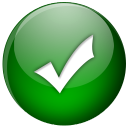
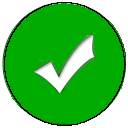
Button added for role switch (codebreaker|codemaker) and 'pressed' images added for all buttons.

diff --git a/js/index.js b/js/index.js
@@ -179,6 +179,9 @@ function displayBoard() {
   topSide += 29; cellHTML += "<div onclick='setColor(" + '"white"' + ")' class='cell' style='top: " + topSide + "px; left: " + leftSide + "px;'><div class='pin white'></div></div>";
 
   $("#board").html(cellHTML);
+  $('#btnCheck').mouseup();
+  $('#btnReset').mouseup();
+  $('#btnSwitch').mouseup();
 }
 
 $(document).ready( function() {
@@ -194,6 +197,24 @@ $(document).ready( function() {
       }
     }
   }
+
+  $('#btnCheck').on("mousedown", function() {
+    $("#btnCheck").css("background-image", "url(images/check_border.png)").css("background-size", "29px 29px");
+  }).on("mouseup", function(){
+    $("#btnCheck").css("background-image", "url(images/check.png)").css("background-size", "29px 29px");
+  });
+
+  $('#btnReset').on("mousedown", function() {
+    $("#btnReset").css("background-image", "url(images/reset_border.png)").css("background-size", "29px 29px");
+  }).on("mouseup", function(){
+    $("#btnReset").css("background-image", "url(images/reset.png)").css("background-size", "29px 29px");
+  });
+
+  $('#btnSwitch').on("mousedown", function() {
+    $("#btnSwitch").css("background-image", "url(images/double_arrow_border.png)").css("background-size", "29px 29px");
+  }).on("mouseup", function(){
+    $("#btnSwitch").css("background-image", "url(images/double_arrow.png)").css("background-size", "29px 29px");
+  });
 
   displayBoard();
 

diff --git a/css/style.css b/css/style.css
@@ -34,12 +34,21 @@ body{
   position: absolute;
   top: 259px;
   left: 175px;
+  background-image: url("images/check.png");
 }
 
 #btnReset {
   position: absolute;
-  top: 316px;
+  top: 317px;
   left: 175px;
+  background-image: url("images/reset.png");
+}
+
+#btnSwitch {
+  position: absolute;
+  top: 375px;
+  left: 175px;
+  background-image: url("images/double_arrow.png");
 }
 
 .cell {
@@ -138,24 +147,8 @@ body{
 }
 
 .btn-custom {
-  border-top:1px solid #5f5f5f;
-  border-bottom: 1px solid #000000;
-  border-left: 1px solid #1f1f1f;
-  border-right: 1px solid #1f1f1f;
-  background-color: #dfdfdf;
-  color: #000000;
-  margin: 3px;
-  padding: 1px;
+  background-color: transparent;
+  width: 30px;
+  height: 30px;
 }
 
-.btn-custom:hover {
-  background-color: #3f6fff !important;
-  border: solid 1px #2A4E77;
-  text-decoration: none;
-  color: white;
-}
-
-.btn-custom:active {
-  background-color: #0000ff !important;
-  border: solid 1px #203E5F;
-}

diff --git a/index.html b/index.html
@@ -24,8 +24,9 @@
         <div class='cell' style='top: 415px; left:34px;'><div id="code2" class='pin gray'></div></div>
         <div class='cell' style='top: 415px; left:63px;'><div id="code3" class='pin gray'></div></div>
         <div class='cell' style='top: 415px; left:92px;'><div id="code4" class='pin gray'></div></div>
-        <button id='btnCheck' class='btn btn-custom'><img src='images/check.png' style='width: 30px; height: 30px'></button>"
-        <button id='btnReset' class='btn btn-custom'><img src='images/reset.png' style='width: 30px; height: 30px'></button>"
+        <button id='btnCheck' class='btn btn-custom'></button>
+        <button id='btnReset' class='btn btn-custom'></button>
+        <button id='btnSwitch' class='btn btn-custom'></button>
       </div>
     </center>
     <div id="audio"></div>
